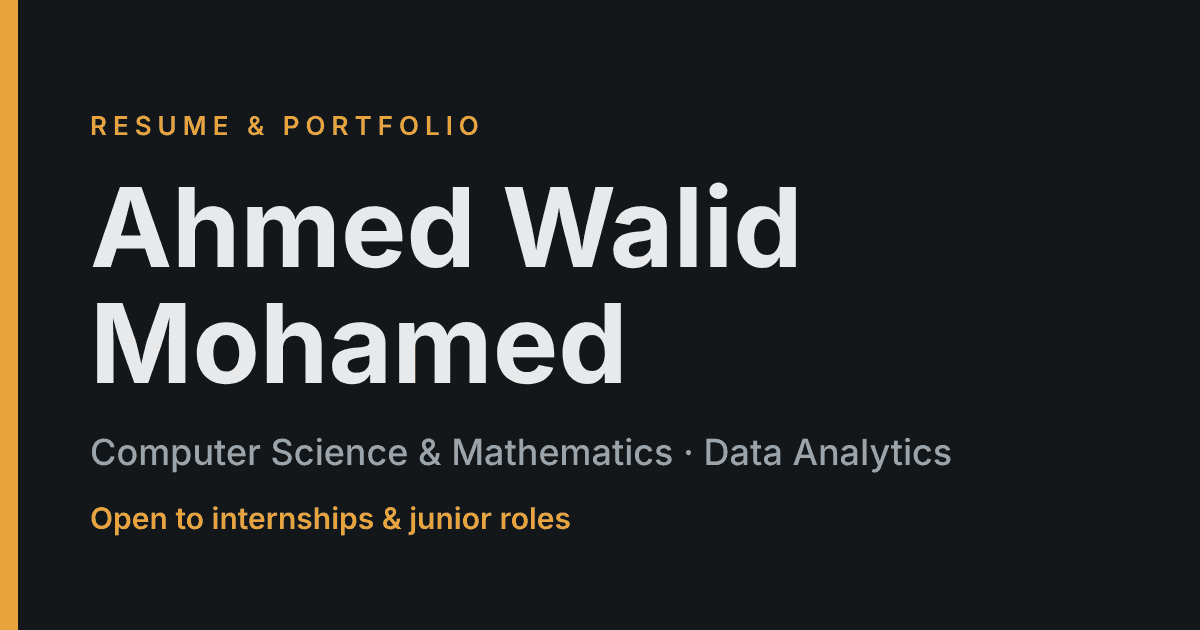
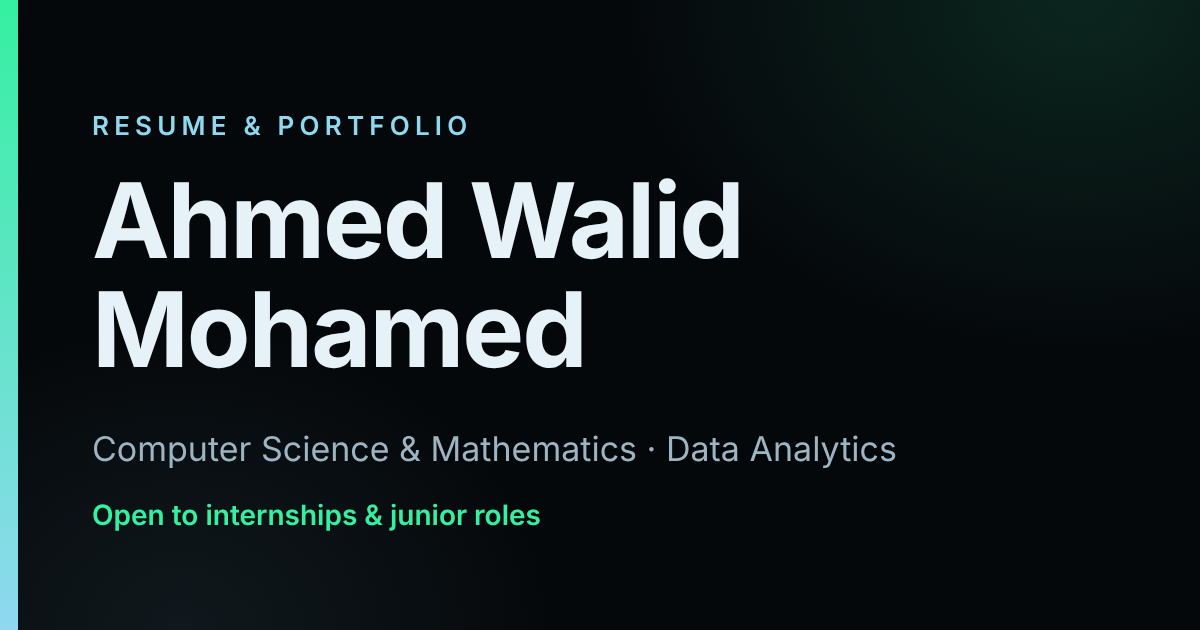
Apply black, ice and aurora green palette to all project pages
- Cyclistic case study, Egypt retail dashboard (chart series + cohort heatmap), Ain Shams site and Born On calculator
- New share image (og-image.png) in the same palette

Claude-Session: https://claude.ai/code/session_014gbfPqrZvXzek7iPNXxsuD

diff --git a/ahmed_walid_resume/ain-shams/index.html b/ahmed_walid_resume/ain-shams/index.html
@@ -1,7 +1,7 @@
 <!DOCTYPE html><html lang="en"><head><meta charset="UTF-8"><meta name="viewport" content="width=device-width, initial-scale=1"><title>Ain Shams University — Student Practice Website</title>
 <meta name="description" content="An unofficial student practice website about Ain Shams University, built to practise HTML, CSS and JavaScript. Not affiliated with the university.">
 <link rel="canonical" href="https://ahmed-walid-resume-v2-ahmed-waleed.vercel.app/ain-shams/index.html">
-<meta name="theme-color" content="#14171A">
+<meta name="theme-color" content="#05080B">
 <link rel="icon" href="../favicon.svg" type="image/svg+xml">
 <link rel="apple-touch-icon" href="../apple-touch-icon.png">
 <meta property="og:type" content="website">
@@ -19,4 +19,4 @@
 <meta name="twitter:image" content="https://ahmed-walid-resume-v2-ahmed-waleed.vercel.app/og-image.png">
 <script>window.va = window.va || function () { (window.vaq = window.vaq || []).push(arguments); };</script>
 <script defer src="/_vercel/insights/script.js"></script>
-<link rel="stylesheet" href="style.css"><style>.skip-link{position:absolute;left:-9999px;top:8px}.skip-link:focus{left:12px;z-index:300;background:#e8d48b;color:#111;padding:10px 14px;border-radius:6px}a:focus-visible,button:focus-visible{outline:2px solid #e8d48b;outline-offset:3px}.footer a{color:inherit;display:inline-block;padding:14px 8px}</style></head><body><a class="skip-link" href="#main">Skip to content</a><nav class="top-bar" aria-label="Back to portfolio"><div class="container"><a href="../index.html" style="color:#e8d48b;">← Back to portfolio</a></div></nav><header class="header" id="header"><div class="container"><a class="logo" href="#"><div class="logo-text"><span class="univ-name">Ain Shams University</span><span class="univ-sub">Excellence Since 1950</span></div></a><button class="menu-toggle" id="menuToggle" aria-label="Open menu" aria-controls="navMenu"><span></span><span></span><span></span></button><ul class="nav-menu" id="navMenu"><li><a href="#" class="active">Home</a></li><li><a href="#about">About</a></li><li><a href="#faculties">Faculties</a></li><li><a href="#statistics">Statistics</a></li></ul></div></header><main id="main"><section class="hero" id="home"><div class="container"><div class="hero-content"><h1>Welcome to <span class="highlight">Ain Shams University</span></h1><p>One of Egypt's oldest and most prestigious universities, dedicated to academic excellence since 1950.</p><div class="hero-stats"><div class="hero-stat"><span class="number">74+</span><span class="label">Years</span></div><div class="hero-stat"><span class="number">200K+</span><span class="label">Students</span></div><div class="hero-stat"><span class="number">15</span><span class="label">Faculties</span></div></div></div></div></section><section class="section about" id="about"><div class="container"><div class="section-title"><h2>About Our University</h2></div><div class="about-text"><p>Ain Shams University, founded in 1950, is the third-oldest Egyptian university, home to over 200,000 students across 15 faculties.</p></div></div></section><section class="section faculties" id="faculties"><div class="container"><div class="section-title"><h2>Our Faculties</h2></div><div class="faculties-grid"><div class="faculty-card"><span class="faculty-icon">🩺</span><h3>Medicine</h3></div><div class="faculty-card"><span class="faculty-icon">⚙</span><h3>Engineering</h3></div><div class="faculty-card"><span class="faculty-icon">💻</span><h3>Computer &amp; Information Sciences</h3></div><div class="faculty-card"><span class="faculty-icon">🔬</span><h3>Science</h3></div></div></div></section><section class="statistics" id="statistics"><div class="container"><div class="section-title"><h2>University in Numbers</h2></div><div class="stats-grid"><div class="stat-item"><span class="stat-number">200,000+</span><span class="stat-label">Students</span></div><div class="stat-item"><span class="stat-number">10,000+</span><span class="stat-label">Faculty</span></div><div class="stat-item"><span class="stat-number">15</span><span class="stat-label">Faculties</span></div></div></div></section></main><footer class="footer"><div class="container"><div class="footer-bottom"><span>Unofficial student practice build — not affiliated with Ain Shams University.</span><br><span><a href="../privacy.html">Privacy</a> · <a href="../terms.html">Terms</a></span></div></div></footer><script src="script.js"></script><script src="../site.js" defer data-privacy="../privacy.html"></script></body></html>
+<link rel="stylesheet" href="style.css"><style>.skip-link{position:absolute;left:-9999px;top:8px}.skip-link:focus{left:12px;z-index:300;background:#8FD8F0;color:#111;padding:10px 14px;border-radius:6px}a:focus-visible,button:focus-visible{outline:2px solid #8FD8F0;outline-offset:3px}.footer a{color:inherit;display:inline-block;padding:14px 8px}</style></head><body><a class="skip-link" href="#main">Skip to content</a><nav class="top-bar" aria-label="Back to portfolio"><div class="container"><a href="../index.html" style="color:#8FD8F0;">← Back to portfolio</a></div></nav><header class="header" id="header"><div class="container"><a class="logo" href="#"><div class="logo-text"><span class="univ-name">Ain Shams University</span><span class="univ-sub">Excellence Since 1950</span></div></a><button class="menu-toggle" id="menuToggle" aria-label="Open menu" aria-controls="navMenu"><span></span><span></span><span></span></button><ul class="nav-menu" id="navMenu"><li><a href="#" class="active">Home</a></li><li><a href="#about">About</a></li><li><a href="#faculties">Faculties</a></li><li><a href="#statistics">Statistics</a></li></ul></div></header><main id="main"><section class="hero" id="home"><div class="container"><div class="hero-content"><h1>Welcome to <span class="highlight">Ain Shams University</span></h1><p>One of Egypt's oldest and most prestigious universities, dedicated to academic excellence since 1950.</p><div class="hero-stats"><div class="hero-stat"><span class="number">74+</span><span class="label">Years</span></div><div class="hero-stat"><span class="number">200K+</span><span class="label">Students</span></div><div class="hero-stat"><span class="number">15</span><span class="label">Faculties</span></div></div></div></div></section><section class="section about" id="about"><div class="container"><div class="section-title"><h2>About Our University</h2></div><div class="about-text"><p>Ain Shams University, founded in 1950, is the third-oldest Egyptian university, home to over 200,000 students across 15 faculties.</p></div></div></section><section class="section faculties" id="faculties"><div class="container"><div class="section-title"><h2>Our Faculties</h2></div><div class="faculties-grid"><div class="faculty-card"><span class="faculty-icon">🩺</span><h3>Medicine</h3></div><div class="faculty-card"><span class="faculty-icon">⚙</span><h3>Engineering</h3></div><div class="faculty-card"><span class="faculty-icon">💻</span><h3>Computer &amp; Information Sciences</h3></div><div class="faculty-card"><span class="faculty-icon">🔬</span><h3>Science</h3></div></div></div></section><section class="statistics" id="statistics"><div class="container"><div class="section-title"><h2>University in Numbers</h2></div><div class="stats-grid"><div class="stat-item"><span class="stat-number">200,000+</span><span class="stat-label">Students</span></div><div class="stat-item"><span class="stat-number">10,000+</span><span class="stat-label">Faculty</span></div><div class="stat-item"><span class="stat-number">15</span><span class="stat-label">Faculties</span></div></div></div></section></main><footer class="footer"><div class="container"><div class="footer-bottom"><span>Unofficial student practice build — not affiliated with Ain Shams University.</span><br><span><a href="../privacy.html">Privacy</a> · <a href="../terms.html">Terms</a></span></div></div></footer><script src="script.js"></script><script src="../site.js" defer data-privacy="../privacy.html"></script></body></html>

diff --git a/ahmed_walid_resume/ain-shams/style.css b/ahmed_walid_resume/ain-shams/style.css
@@ -1,3 +1,3 @@
-:root{--primary:#1a3c6e;--primary-dark:#0e2542;--secondary:#c9a84c;--secondary-light:#e8d48b;--bg-light:#f8f9fa;--bg-white:#fff;--text:#333;--text-light:#666;--shadow:0 4px 20px rgba(0,0,0,.08);--radius:12px;}*{margin:0;padding:0;box-sizing:border-box;}body{font-family:'Segoe UI',Tahoma,sans-serif;color:var(--text);line-height:1.7;background:var(--bg-white);}.container{max-width:1200px;margin:0 auto;padding:0 20px;}.top-bar{background:var(--primary-dark);color:#fff;padding:8px 0;font-size:.85rem;}.header{background:var(--bg-white);box-shadow:var(--shadow);position:sticky;top:0;z-index:1000;}.header .container{display:flex;justify-content:space-between;align-items:center;padding:15px 0;flex-wrap:wrap;}.logo{display:flex;align-items:center;gap:12px;text-decoration:none;}.univ-name{font-size:1.3rem;font-weight:700;color:var(--primary);}.univ-sub{font-size:.75rem;color:var(--text-light);text-transform:uppercase;}.nav-menu{display:flex;list-style:none;gap:5px;flex-wrap:wrap;}.nav-menu li a{text-decoration:none;color:var(--text);font-weight:500;padding:10px 16px;border-radius:8px;}.nav-menu li a:hover,.nav-menu li a.active{background:var(--primary);color:#fff;}.menu-toggle{display:none;background:none;border:none;cursor:pointer;flex-direction:column;gap:5px;}.menu-toggle span{width:28px;height:3px;background:var(--primary);border-radius:3px;}.hero{background:linear-gradient(135deg,var(--primary-dark),var(--primary));color:#fff;padding:80px 0;}.hero-content h1{font-size:2.8rem;font-weight:800;margin-bottom:20px;}.hero-content h1 .highlight{color:var(--secondary-light);display:block;font-size:1.6rem;}.hero-content p{font-size:1.1rem;color:rgba(255,255,255,.85);max-width:500px;margin-bottom:30px;}.hero-stats{display:flex;gap:30px;flex-wrap:wrap;}.hero-stat .number{font-size:2rem;font-weight:700;color:var(--secondary-light);display:block;}.hero-stat .label{font-size:.8rem;color:rgba(255,255,255,.7);text-transform:uppercase;}.section{padding:70px 0;}.section-title{text-align:center;margin-bottom:40px;}.section-title h2{font-size:2.2rem;font-weight:700;color:var(--primary);}.about{background:var(--bg-light);}.about-text p{color:var(--text-light);font-size:1.05rem;max-width:700px;margin:0 auto;text-align:center;}.faculties-grid{display:grid;grid-template-columns:repeat(auto-fill,minmax(220px,1fr));gap:25px;}.faculty-card{background:var(--bg-light);border-radius:var(--radius);padding:30px;text-align:center;border:1px solid #eaeaea;}.faculty-icon{font-size:2.5rem;display:block;margin-bottom:12px;}.faculty-card h3{color:var(--primary);font-size:1.1rem;}.statistics{background:linear-gradient(135deg,var(--primary-dark),var(--primary));color:#fff;}.statistics .section-title h2{color:#fff;}.stats-grid{display:grid;grid-template-columns:repeat(auto-fit,minmax(180px,1fr));gap:30px;text-align:center;}.stat-item .stat-number{font-size:2.4rem;font-weight:800;color:var(--secondary-light);display:block;}.stat-item .stat-label{font-size:.9rem;color:rgba(255,255,255,.85);text-transform:uppercase;}.footer{background:var(--primary-dark);color:rgba(255,255,255,.8);padding:30px 0;}.footer-bottom{text-align:center;font-size:.85rem;}@media (max-width:768px){.menu-toggle{display:flex;}.nav-menu{display:none;position:absolute;top:100%;left:0;right:0;background:var(--bg-white);flex-direction:column;padding:20px;box-shadow:var(--shadow);}.nav-menu.open{display:flex;}.hero-content h1{font-size:2rem;}}
+:root{--primary:#0F5F7A;--primary-dark:#05080B;--secondary:#35F0A0;--secondary-light:#8FD8F0;--bg-light:#EEF6FA;--bg-white:#fff;--text:#0A1620;--text-light:#44596A;--shadow:0 4px 20px rgba(0,0,0,.08);--radius:12px;}*{margin:0;padding:0;box-sizing:border-box;}body{font-family:'Segoe UI',Tahoma,sans-serif;color:var(--text);line-height:1.7;background:var(--bg-white);}.container{max-width:1200px;margin:0 auto;padding:0 20px;}.top-bar{background:var(--primary-dark);color:#fff;padding:8px 0;font-size:.85rem;}.header{background:var(--bg-white);box-shadow:var(--shadow);position:sticky;top:0;z-index:1000;}.header .container{display:flex;justify-content:space-between;align-items:center;padding:15px 0;flex-wrap:wrap;}.logo{display:flex;align-items:center;gap:12px;text-decoration:none;}.univ-name{font-size:1.3rem;font-weight:700;color:var(--primary);}.univ-sub{font-size:.75rem;color:var(--text-light);text-transform:uppercase;}.nav-menu{display:flex;list-style:none;gap:5px;flex-wrap:wrap;}.nav-menu li a{text-decoration:none;color:var(--text);font-weight:500;padding:10px 16px;border-radius:8px;}.nav-menu li a:hover,.nav-menu li a.active{background:var(--primary);color:#fff;}.menu-toggle{display:none;background:none;border:none;cursor:pointer;flex-direction:column;gap:5px;}.menu-toggle span{width:28px;height:3px;background:var(--primary);border-radius:3px;}.hero{background:linear-gradient(135deg,var(--primary-dark),var(--primary));color:#fff;padding:80px 0;}.hero-content h1{font-size:2.8rem;font-weight:800;margin-bottom:20px;}.hero-content h1 .highlight{color:var(--secondary-light);display:block;font-size:1.6rem;}.hero-content p{font-size:1.1rem;color:rgba(255,255,255,.85);max-width:500px;margin-bottom:30px;}.hero-stats{display:flex;gap:30px;flex-wrap:wrap;}.hero-stat .number{font-size:2rem;font-weight:700;color:var(--secondary-light);display:block;}.hero-stat .label{font-size:.8rem;color:rgba(255,255,255,.7);text-transform:uppercase;}.section{padding:70px 0;}.section-title{text-align:center;margin-bottom:40px;}.section-title h2{font-size:2.2rem;font-weight:700;color:var(--primary);}.about{background:var(--bg-light);}.about-text p{color:var(--text-light);font-size:1.05rem;max-width:700px;margin:0 auto;text-align:center;}.faculties-grid{display:grid;grid-template-columns:repeat(auto-fill,minmax(220px,1fr));gap:25px;}.faculty-card{background:var(--bg-light);border-radius:var(--radius);padding:30px;text-align:center;border:1px solid #CFE0EA;}.faculty-icon{font-size:2.5rem;display:block;margin-bottom:12px;}.faculty-card h3{color:var(--primary);font-size:1.1rem;}.statistics{background:linear-gradient(135deg,var(--primary-dark),var(--primary));color:#fff;}.statistics .section-title h2{color:#fff;}.stats-grid{display:grid;grid-template-columns:repeat(auto-fit,minmax(180px,1fr));gap:30px;text-align:center;}.stat-item .stat-number{font-size:2.4rem;font-weight:800;color:var(--secondary-light);display:block;}.stat-item .stat-label{font-size:.9rem;color:rgba(255,255,255,.85);text-transform:uppercase;}.footer{background:var(--primary-dark);color:rgba(255,255,255,.8);padding:30px 0;}.footer-bottom{text-align:center;font-size:.85rem;}@media (max-width:768px){.menu-toggle{display:flex;}.nav-menu{display:none;position:absolute;top:100%;left:0;right:0;background:var(--bg-white);flex-direction:column;padding:20px;box-shadow:var(--shadow);}.nav-menu.open{display:flex;}.hero-content h1{font-size:2rem;}}
 
 html{-webkit-text-size-adjust:100%}.header .container{padding-left:20px;padding-right:20px}.top-bar a{display:inline-block;padding:12px 0}.logo{padding:8px 0}@media (max-width:768px){.univ-name,.univ-sub{display:block}.nav-menu li a{display:block;padding:12px 16px}.menu-toggle{padding:12px 10px;min-width:44px;min-height:44px;align-items:center;justify-content:center}}@media (max-width:480px){.section{padding:48px 0}.section-title h2{font-size:1.7rem}.hero{padding:56px 0}.hero-content h1{font-size:1.7rem}.hero-content h1 .highlight{font-size:1.3rem}.hero-stats{gap:20px}.stat-item .stat-number{font-size:2rem}.univ-name{font-size:1.1rem}.faculty-card{padding:22px}}

diff --git a/ahmed_walid_resume/born-on.html b/ahmed_walid_resume/born-on.html
@@ -5,7 +5,7 @@
 <title>Born On — Age &amp; Birth-Date Calculator | Ahmed Walid Mohamed</title>
 <meta name="description" content="Enter a date of birth to see exact age, days until the next birthday, a live time-lived counter, milestones, zodiac signs and fun birth-date facts.">
 <link rel="canonical" href="https://ahmed-walid-resume-v2-ahmed-waleed.vercel.app/born-on.html">
-<meta name="theme-color" content="#ECF0F5">
+<meta name="theme-color" content="#EEF6FA">
 <link rel="icon" href="favicon.svg" type="image/svg+xml">
 <link rel="apple-touch-icon" href="apple-touch-icon.png">
 <meta property="og:type" content="website">
@@ -19,11 +19,11 @@
 <meta name="viewport" content="width=device-width, initial-scale=1, viewport-fit=cover">
 <link href="https://fonts.googleapis.com/css2?family=Bricolage+Grotesque:opsz,wght@12..96,800&family=IBM+Plex+Mono:wght@400;500&family=Instrument+Sans:wght@400;500;600&display=swap" rel="stylesheet">
 <style>
-:root{--ground:#ECF0F5;--panel:#FFFFFF;--ink:#121C33;--soft:#4F5E7C;--line:#D2DAE6;--accent:#2D5BE3;--mark:#F5A524;--mark-ink:#2A1A00;--err:#B3261E;
+:root{--ground:#EEF6FA;--panel:#FFFFFF;--ink:#0A1620;--soft:#44596A;--line:#CFE0EA;--accent:#0F5F7A;--mark:#4DEDB0;--mark-ink:#03140C;--err:#B3261E;
 --fd:'Bricolage Grotesque','Segoe UI',system-ui,sans-serif;--fb:'Instrument Sans','Segoe UI',system-ui,sans-serif;--fm:'IBM Plex Mono',ui-monospace,Menlo,Consolas,monospace;
 box-sizing:border-box;padding-top:env(safe-area-inset-top,0px);padding-bottom:env(safe-area-inset-bottom,0px)}
-@media (prefers-color-scheme:dark){:root:not([data-theme="light"]){--ground:#0C1424;--panel:#131E34;--ink:#E8EEF9;--soft:#9AA9C6;--line:#243251;--accent:#86A3FF;--mark:#F5B544;--err:#FF8A80;color-scheme:dark}}
-:root[data-theme="dark"]{--ground:#0C1424;--panel:#131E34;--ink:#E8EEF9;--soft:#9AA9C6;--line:#243251;--accent:#86A3FF;--mark:#F5B544;--err:#FF8A80;color-scheme:dark}
+@media (prefers-color-scheme:dark){:root:not([data-theme="light"]){--ground:#05080B;--panel:#0E151B;--ink:#E6F2F8;--soft:#9DB4C2;--line:#1B2831;--accent:#8FD8F0;--mark:#35F0A0;--mark-ink:#03140C;--err:#FF8A80;color-scheme:dark}}
+:root[data-theme="dark"]{--ground:#05080B;--panel:#0E151B;--ink:#E6F2F8;--soft:#9DB4C2;--line:#1B2831;--accent:#8FD8F0;--mark:#35F0A0;--mark-ink:#03140C;--err:#FF8A80;color-scheme:dark}
 *{box-sizing:border-box}
 html{scroll-padding-top:env(safe-area-inset-top,0px)}
 body{margin:0;background:var(--ground);color:var(--ink);font:16px/1.5 var(--fb);padding:28px max(16px,env(safe-area-inset-right,0px)) 64px max(16px,env(safe-area-inset-left,0px))}

diff --git a/ahmed_walid_resume/egypt_retail_analytics/index.html b/ahmed_walid_resume/egypt_retail_analytics/index.html
@@ -5,10 +5,10 @@
 <meta name="viewport" content="width=device-width, initial-scale=1">
 <title>Egypt E-commerce Sales Dashboard</title>
 <style>
-:root{color-scheme:light;--bg:#f6f6f3;--surface:#fcfcfb;--ink:#0b0b0b;--ink2:#52514e;--muted:#7a7974;--line:#e3e2dc;
---s1:#2a78d6;--s2:#eb6834;--s3:#1baf7a;--s4:#eda100;--heat:42,120,214}
-@media (prefers-color-scheme:dark){:root:not([data-theme="light"]){color-scheme:dark;--bg:#121211;--surface:#1a1a19;--ink:#f0efec;--ink2:#c3c2b7;--muted:#97968e;--line:#2c2c2a;--s1:#3987e5;--s2:#d95926;--s3:#199e70;--s4:#c98500;--heat:57,135,229}}
-:root[data-theme="dark"]{color-scheme:dark;--bg:#121211;--surface:#1a1a19;--ink:#f0efec;--ink2:#c3c2b7;--muted:#97968e;--line:#2c2c2a;--s1:#3987e5;--s2:#d95926;--s3:#199e70;--s4:#c98500;--heat:57,135,229}
+:root{color-scheme:light;--bg:#EEF6FA;--surface:#FFFFFF;--ink:#0A1620;--ink2:#44596A;--muted:#5F7482;--line:#CFE0EA;
+--s1:#0F5F7A;--s2:#0B8A5C;--s3:#2E86B8;--s4:#5B7A8C;--heat:15,95,122;--heat-ink:#fff}
+@media (prefers-color-scheme:dark){:root:not([data-theme="light"]){color-scheme:dark;--bg:#05080B;--surface:#0E151B;--ink:#E6F2F8;--ink2:#9DB4C2;--muted:#8AA0AE;--line:#1B2831;--s1:#8FD8F0;--s2:#35F0A0;--s3:#4C9FD6;--s4:#B6C4D0;--heat:143,216,240;--heat-ink:#05080B}}
+:root[data-theme="dark"]{color-scheme:dark;--bg:#05080B;--surface:#0E151B;--ink:#E6F2F8;--ink2:#9DB4C2;--muted:#8AA0AE;--line:#1B2831;--s1:#8FD8F0;--s2:#35F0A0;--s3:#4C9FD6;--s4:#B6C4D0;--heat:143,216,240;--heat-ink:#05080B}
 *{box-sizing:border-box}
 body{margin:0;background:var(--bg);color:var(--ink);font:15px/1.5 system-ui,-apple-system,"Segoe UI",Roboto,sans-serif}
 .wrap{max-width:1120px;margin:0 auto;padding:24px 16px 48px}
@@ -185,7 +185,7 @@ function renderCohort(){
       const v = c.retention[i];
       if(v===undefined || v===null) return "<td></td>";
       const a = Math.min(1, v/30);
-      return `<td style="background:rgba(${rgb},${(0.08+a*0.8).toFixed(2)});color:${a>.55?'#fff':'inherit'}" title="${v}%">${Math.round(v)}</td>`;
+      return `<td style="background:rgba(${rgb},${(0.08+a*0.8).toFixed(2)});color:${a>.55?'var(--heat-ink)':'inherit'}" title="${v}%">${Math.round(v)}</td>`;
     }).join("") + "</tr>";
   });
   el("cohort").innerHTML = h;

diff --git a/ahmed_walid_resume/cyclistic-case-study/css/style.css b/ahmed_walid_resume/cyclistic-case-study/css/style.css
@@ -1,5 +1,5 @@
-:root,[data-theme="analyst"]{--bg:#14181d;--panel:#1b2128;--ink:#e6eaee;--mute:#98a3ae;--line:#2c353f;--casual:#f0a030;--member:#4fb3a9;--link:#f0a030}
-[data-theme="clean"]{--bg:#f5f6f8;--panel:#fff;--ink:#17202a;--mute:#5b6773;--line:#dde1e6;--casual:#d9650f;--member:#1c6fae;--link:#1c6fae}
+:root,[data-theme="analyst"]{--bg:#05080B;--panel:#0E151B;--ink:#E6F2F8;--mute:#9DB4C2;--line:#1B2831;--casual:#35F0A0;--member:#6CC0EA;--link:#8FD8F0}
+[data-theme="clean"]{--bg:#EEF6FA;--panel:#fff;--ink:#0A1620;--mute:#44596A;--line:#CFE0EA;--casual:#0B8A5C;--member:#2E86B8;--link:#0F5F7A}
 *{box-sizing:border-box}
 html{box-sizing:border-box;padding-top:env(safe-area-inset-top,0px);padding-bottom:env(safe-area-inset-bottom,0px);scroll-padding-top:56px;background:var(--bg)}
 body{margin:0;background:var(--bg);color:var(--ink);font:16px/1.6 system-ui,-apple-system,"Segoe UI",Roboto,sans-serif}
